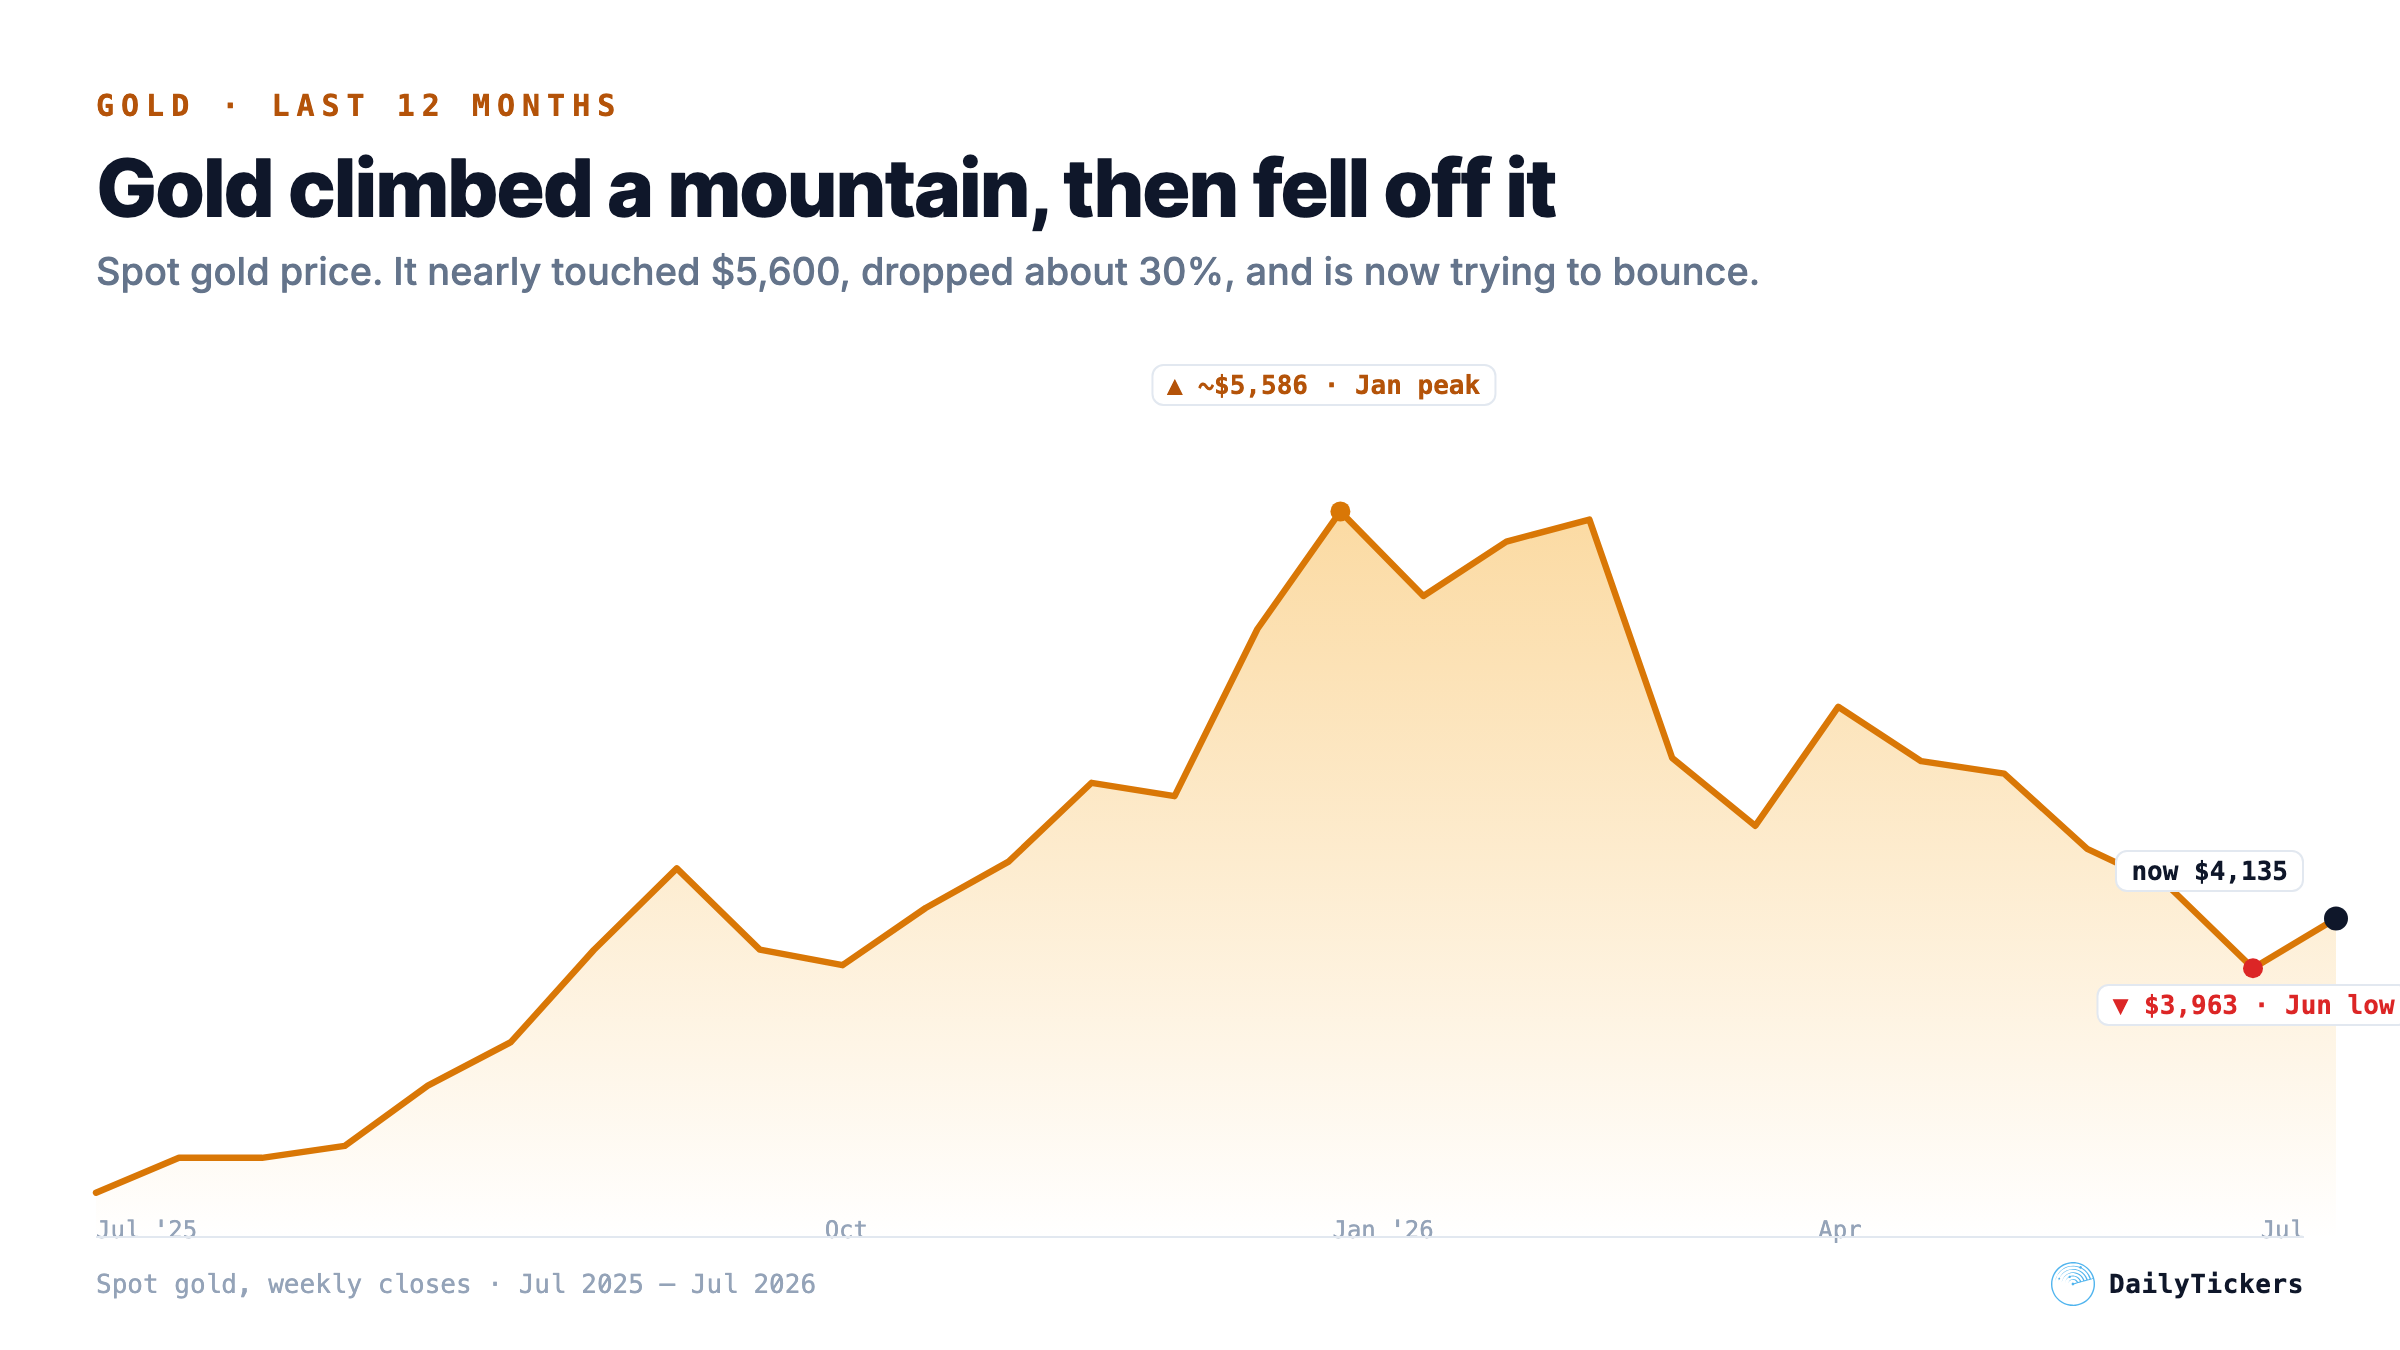
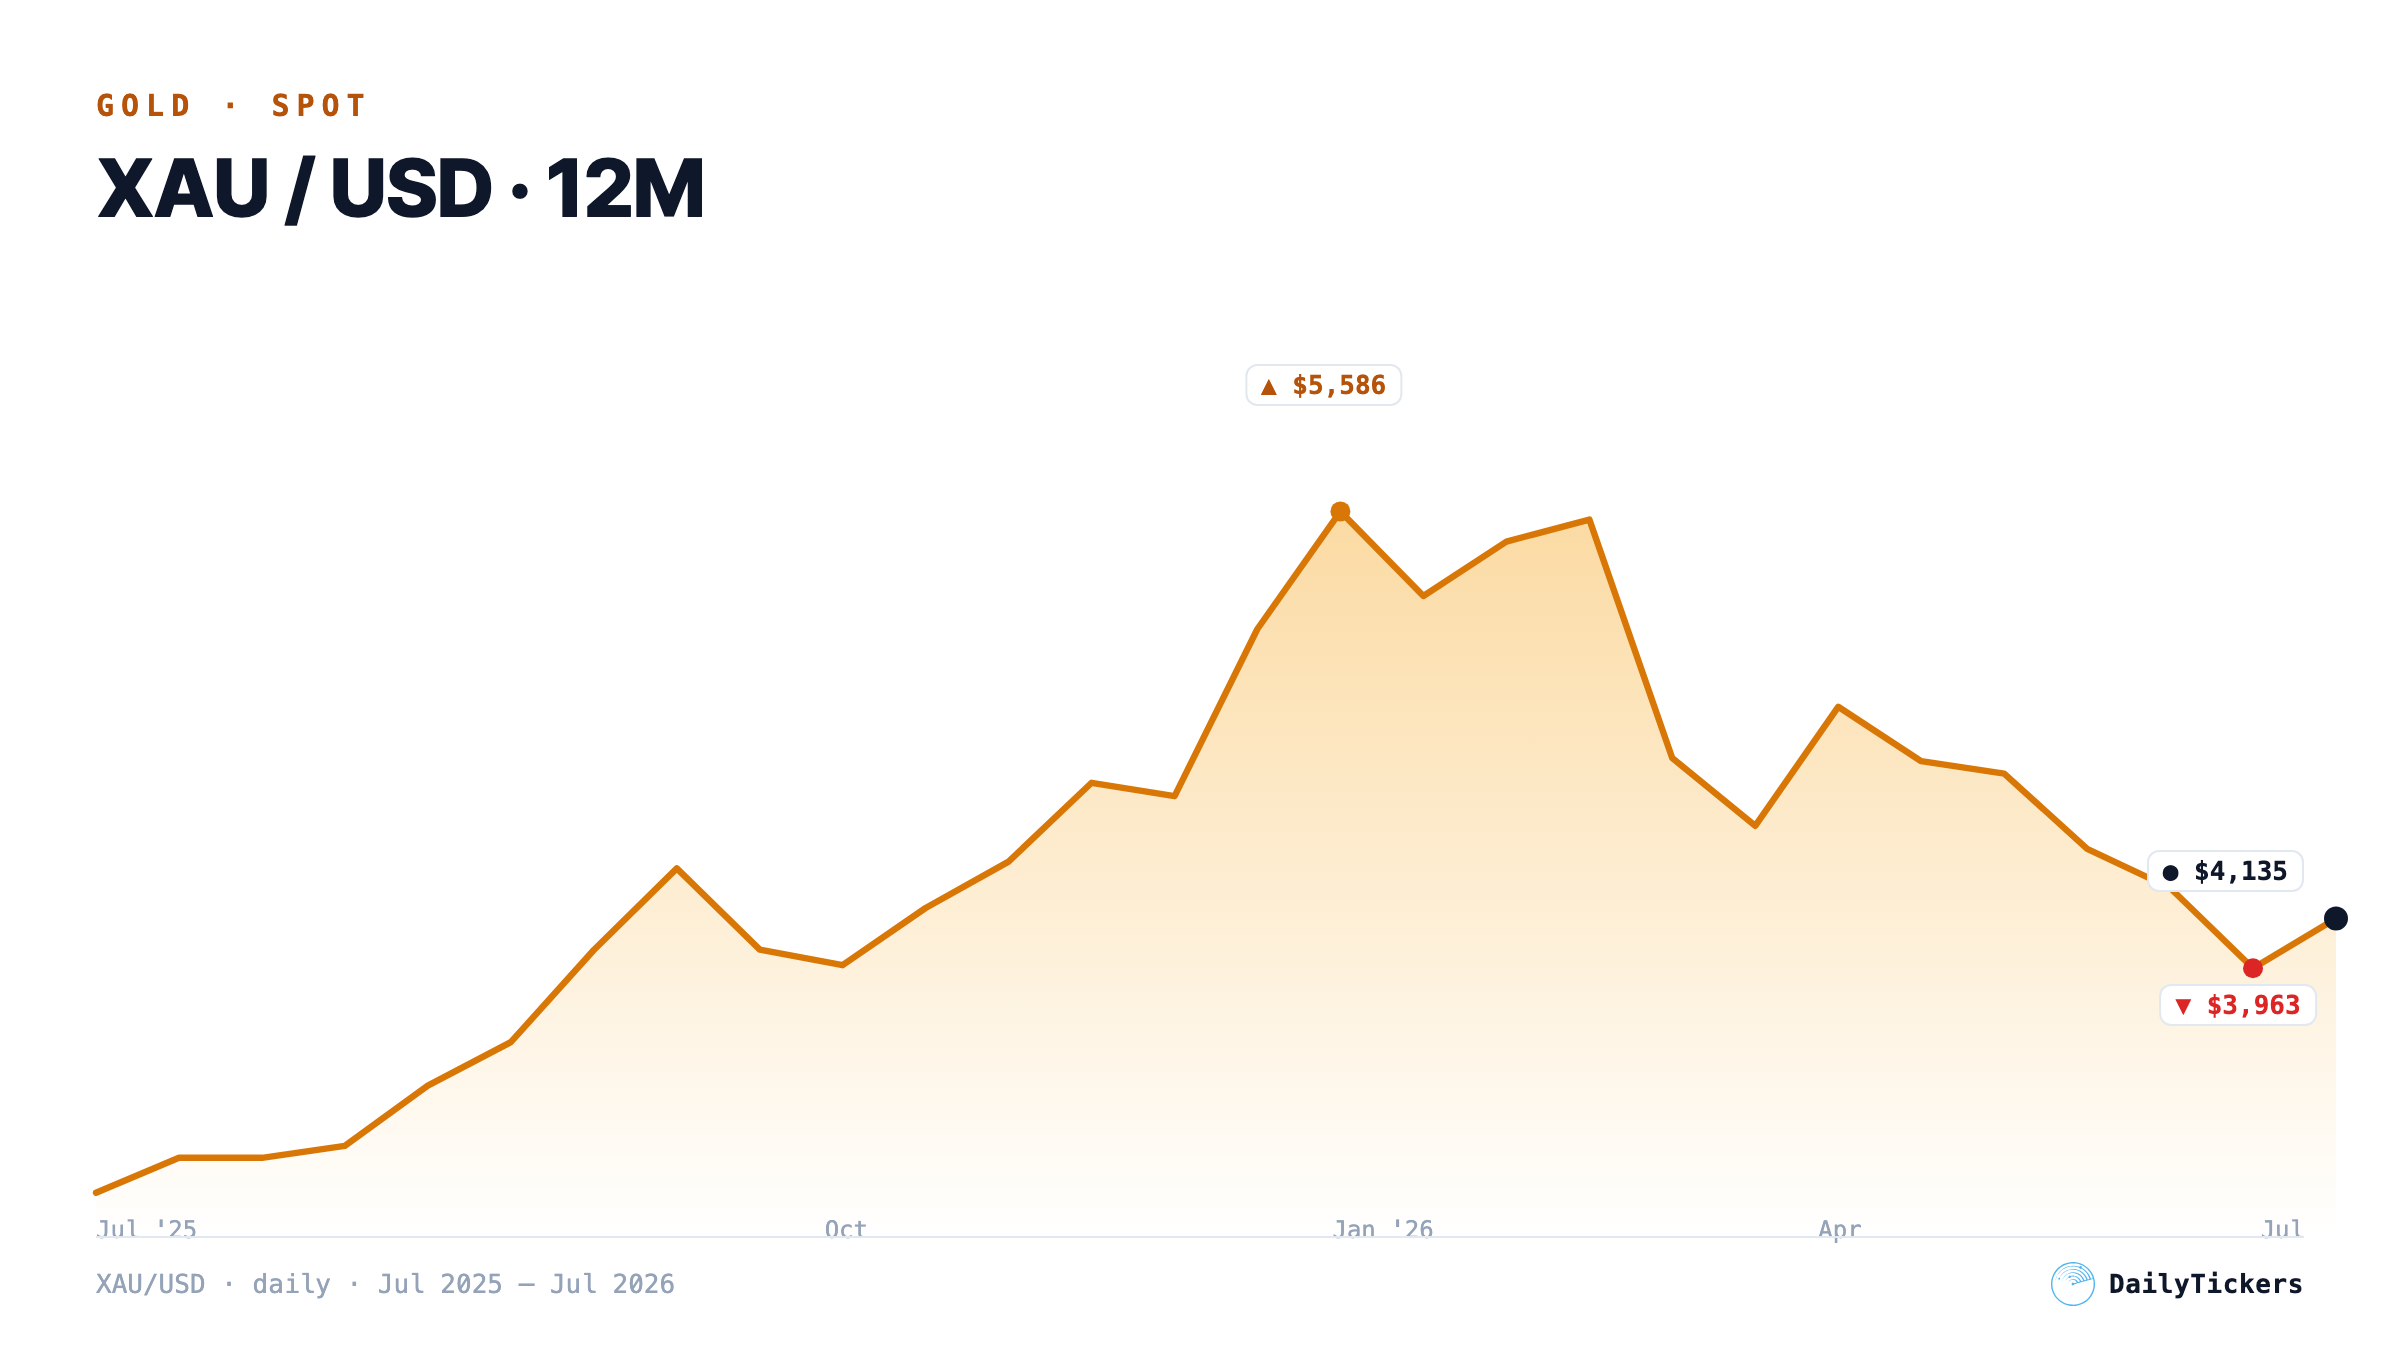
assets: gold chart made language-neutral (XAU/USD, numeric markers) for multilingual post

diff --git a/tools/templates/gold-chart.html b/tools/templates/gold-chart.html
@@ -16,9 +16,8 @@
 </style></head>
 <body>
 <div class="card">
- <div class="eyebrow">Gold · Last 12 months</div>
- <h1>Gold climbed a mountain, then fell off it</h1>
- <div class="sub">Spot gold price. It nearly touched $5,600, dropped about 30%, and is now trying to bounce.</div>
+ <div class="eyebrow">Gold · Spot</div>
+ <h1>XAU / USD · 12M</h1>
  <div class="plot">
   <svg width="1120" height="430" viewBox="0 0 1120 430" preserveAspectRatio="none">
    <defs><linearGradient id="g" x1="0" y1="0" x2="0" y2="1">
@@ -29,15 +28,15 @@
    <circle cx="1078.5" cy="294.1" r="5" fill="#dc2626"/>
    <circle cx="1120.0" cy="269.2" r="6" fill="#0f172a"/>
   </svg>
-  <div class="mk" style="left:55.6%;top:-8px;transform:translateX(-50%);color:#b45309">▲ ~$5,586 · Jan peak</div>
-  <div class="mk" style="left:96.3%;top:302px;transform:translateX(-40%);color:#dc2626">▼ $3,963 · Jun low</div>
-  <div class="mk" style="right:0;top:235px;color:#0f172a">now $4,135</div>
+  <div class="mk" style="left:55.6%;top:-8px;transform:translateX(-50%);color:#b45309">▲ $5,586</div>
+  <div class="mk" style="left:96.3%;top:302px;transform:translateX(-40%);color:#dc2626">▼ $3,963</div>
+  <div class="mk" style="right:0;top:235px;color:#0f172a">● $4,135</div>
   <div class="xlab" style="left:0">Jul '25</div>
   <div class="xlab" style="left:33%">Oct</div>
   <div class="xlab" style="left:56%">Jan '26</div>
   <div class="xlab" style="left:78%">Apr</div>
   <div class="xlab" style="right:0">Jul</div>
  </div>
[2 lines of base64/hex data omitted]
 </div>
 </body></html>
